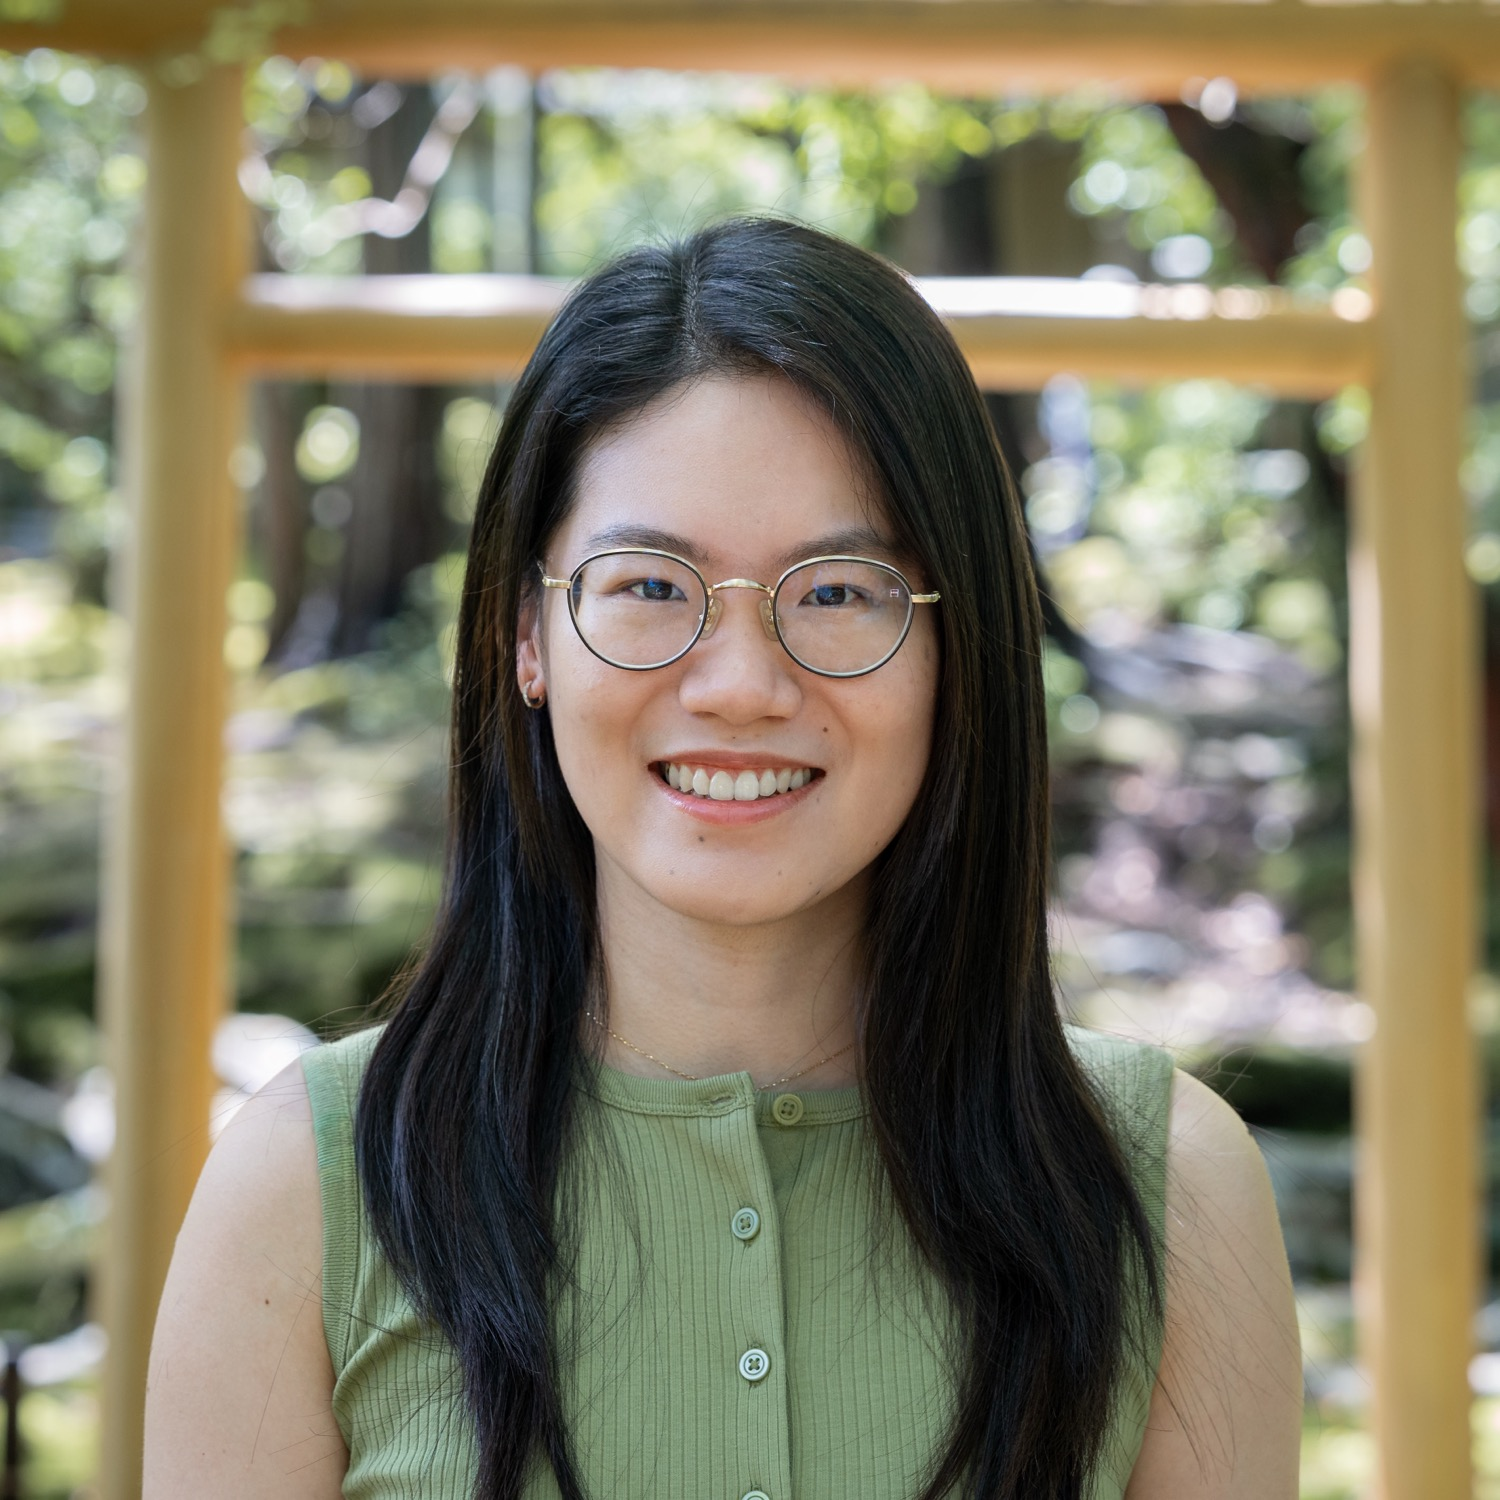
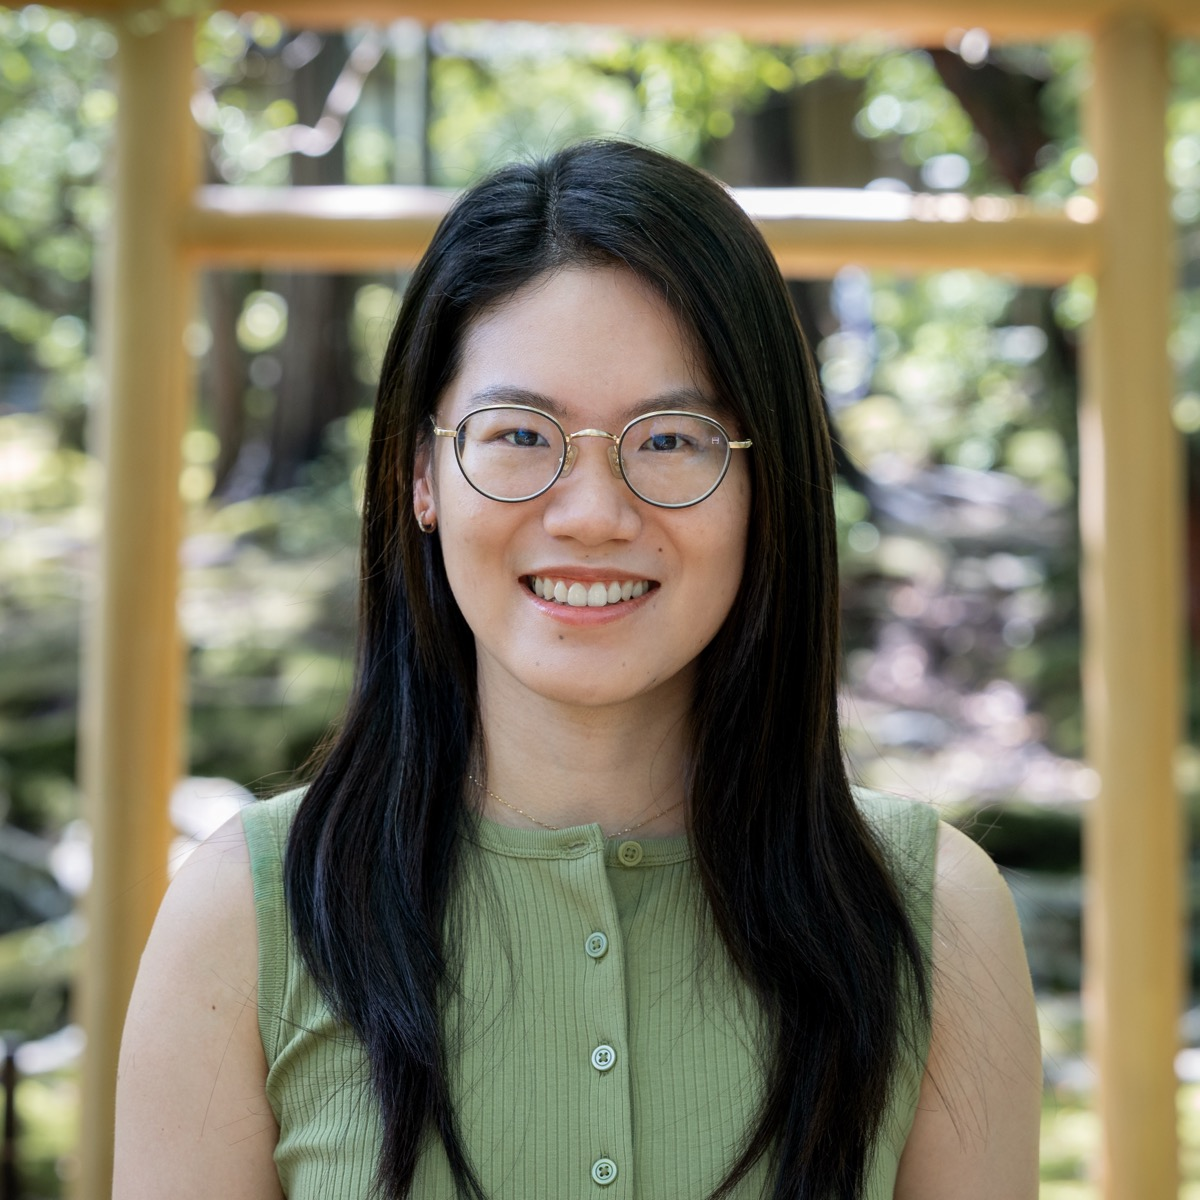
Update profile photo; move it down and make it slightly smaller

diff --git a/_sass/_base.scss b/_sass/_base.scss
@@ -222,18 +222,13 @@ ul.task-list input[type="checkbox"] {
 
 @media (min-width: 576px) {
   .profile {
-    width: 30%;
+    width: 25%;
 
     .address {
       p {
         display: block;
       }
     }
-  }
-
-  // Pull the floated profile image up so it sits closer to the page title.
-  .profile.float-right {
-    margin-top: -3.5rem;
   }
 }
 
